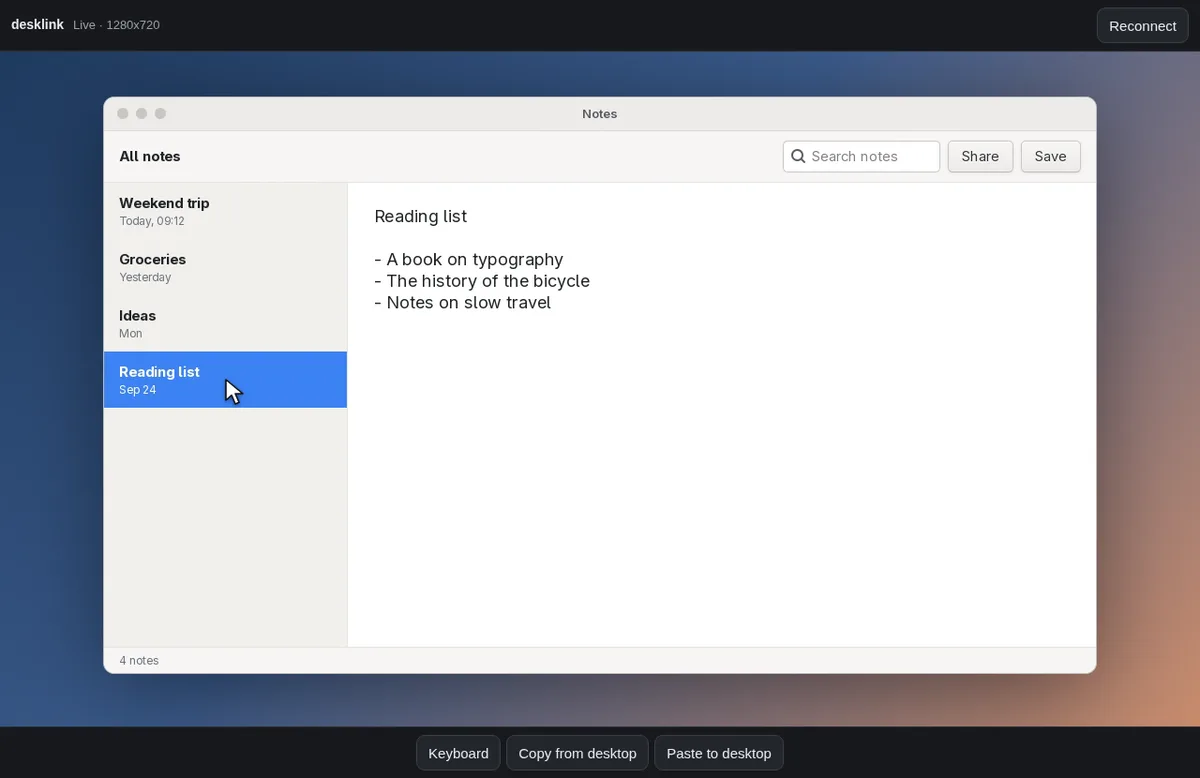
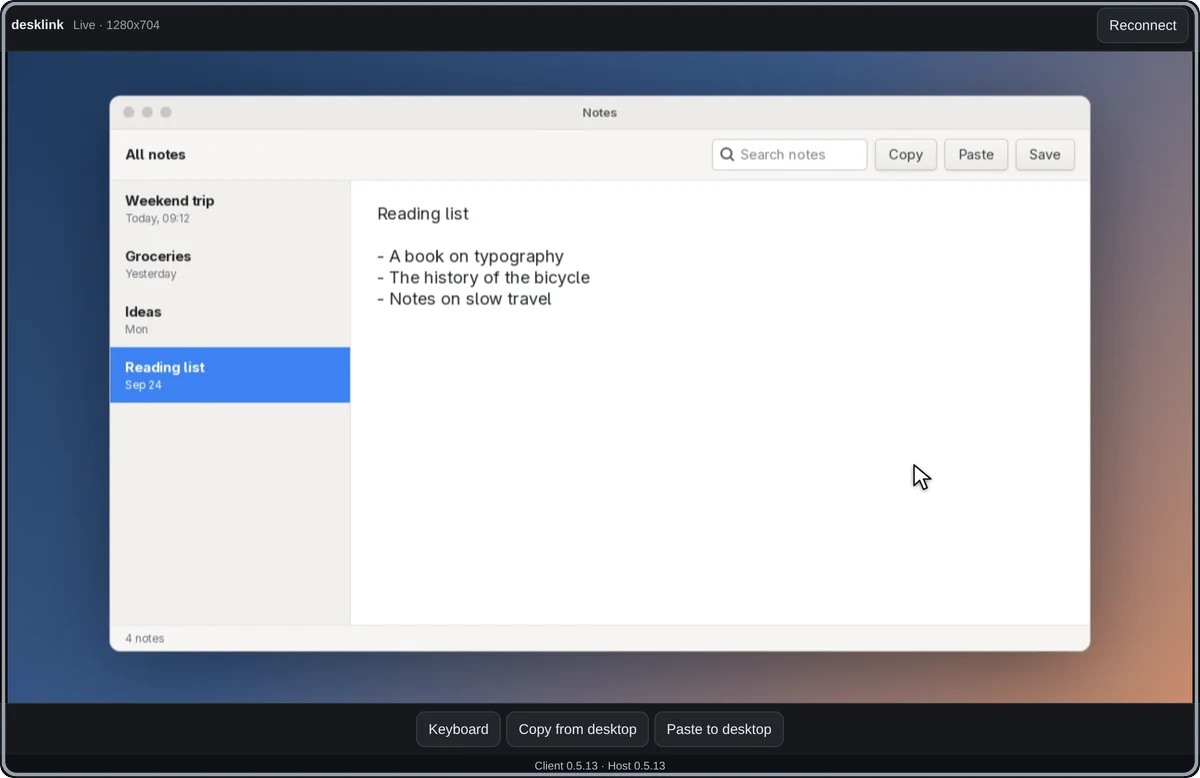
docs(readme): clean captures below the fold (#221)
Replace the four grid stills, three of which were cropped or unreadable, with
two full-bleed real captures and one real agent transcript:

- The browser still is a full client capture at 0.5.13, on a demo desktop sized
  to the client's stage, so the picture has no letterbox bars.
- The phone still is the whole Android emulator screen in portrait at 0.5.13,
  with the demo desktop fitted inside it: nothing is clipped, and the previous
  zoomed crop of the desktop is gone.
- The agent tile becomes the real desklink-axi session as fenced text, so the
  lines are whole and legible at 390 px instead of a hard crop of a terminal.
- Both stills are framed the same way: rounded corners and a hairline that reads
  in light and dark.

The Proof table keeps its measured numbers in three narrow columns, and the
Packages and More tables become plain lists so nothing is clipped or scrolled at
390 px. The published-packages line names 0.5.13.

No product code changes.

Changed region(s): [[0.0, 0.0, 1.0, 1.0], [0.3083, 0.2468, 0.4933, 0.401], [0.4933, 0.1234, 0.5242, 0.1542]]

diff --git a/README.md b/README.md
@@ -32,7 +32,8 @@
 On a Linux x64 X11 desktop, with Node.js 22+:
 
 ```sh
-npx @desklink/host bridge --source x11
+npx @desklink/host bridge \
+  --source x11
 ```
 
 Keep that terminal open. It prints an `open` link; open it in a browser on the
@@ -46,11 +47,7 @@ To put the view in a phone app, follow [put the desktop in a phone app](docs/qui
 <details>
 <summary>Not starting? Check what this computer can share</summary>
 
-```sh
-npx @desklink/host capabilities
-```
-
-It prints the capture backends, input injection, clipboard and audio options this
+Run `npx @desklink/host capabilities`. It prints the capture backends, input injection, clipboard and audio options this
 machine reports right now, so a missing portal, `uinput` permission or X display
 shows up before a session is opened. The [host setup guide](packages/desktop-host/README.md#install-and-run)
 covers what each one needs.
@@ -74,20 +71,44 @@ own, and keeps the last word on who gets in.
 
 ## What you get
 
-<table>
-  <tr>
-    <td width="50%" valign="top"><img src="docs/assets/readme/browser.webp" alt="Browser reference client with the Reading list open on a private demo desktop." width="480" /><br/><strong>In your browser</strong><br/>Click, type and scroll. No client build needed.</td>
-    <td width="50%" valign="top"><img src="docs/assets/readme/phone.webp" alt="React Native example app on a landscape Android emulator: a tap selects Groceries, with touch pointer and key controls visible." width="480" /><br/><strong>In your phone app</strong><br/>The React Native view, on an Android emulator.</td>
-  </tr>
-  <tr>
-    <td width="50%" valign="top"><img src="docs/assets/readme/agent.webp" alt="A close-up of the real agent CLI: read Groceries as text, click the Bread item, then press End." width="480" /><br/><strong>With your agent</strong><br/>Read the screen as text. Ask for pixels when needed.</td>
-    <td width="50%" valign="top"><img src="docs/assets/readme/clipboard.webp" alt="The browser client copies Book the cabin by the lake from the desktop note, then pastes Call Umer about the cabin back into it." width="480" /><br/><strong>Keys and clipboard, too</strong><br/>Copy text over and send it back, only when you ask.</td>
-  </tr>
-</table>
+<p align="center">
+  <img src="docs/assets/readme/browser.webp" alt="The browser reference client with the Reading list note open on a private demo desktop; the client's own header and clipboard toolbar are visible above and below the picture." width="880" />
+</p>
 
-All four are real captures from the demo lab, with seed notes on a private
-desktop and an Android emulator. The loop above is 0.5.12 driving that desktop
-through the browser client: a click, then a paste from this computer's clipboard.
+**In your browser.** Click, type and scroll the live desktop. No client build needed.
+
+<p align="center">
+  <img src="docs/assets/readme/phone.webp" alt="The demo desktop in the React Native example app on an Android emulator: the whole Notes window with the Groceries note open, its sidebar, toolbar and status line, and the demo notes readable at full size." width="880" />
+</p>
+
+**In your phone app.** The same desktop through `@desklink/react-native`, on an Android emulator.
+The phone's own key and clipboard rows sit under the picture; this is the picture above them.
+
+**With your agent.** `desklink-axi` answers with text, refs and coordinates rather than
+screenshots, so a turn costs text tokens. One real session, with the Groceries note open:
+it reads the screen, then clicks the Bread line by its ref. The frame-statistics line and
+the rows between the first and the last three are left out.
+
+```sh
+$ desklink-axi screen
+text[19 of 19]{ref,text,x,y}:
+  "@7.1","All notes",127,106
+  ...
+  "@7.13","- Oat milk",400,245
+  "@7.14","- Lemons",400,268
+  "@7.15","- Bread",400,291
+help[1]:
+  desklink-axi click @7.<n>
+$ desklink-axi click @7.15
+input: applied
+```
+
+**Keys and clipboard, too.** Typing goes through the view, and text moves between the
+phone and the desktop only when your app asks. The loop at the top of this page is one
+round trip: a line copied on this computer, pasted into the desktop's note.
+
+Both stills are real captures from the demo lab, with seed notes on a private desktop and
+an Android emulator.
 
 - **Live, readable video** — sharp still text, smooth motion, and pinch to zoom on a phone.
 - **Touch becomes a pointer** — tap, drag, scroll and type on the same desktop.
@@ -99,12 +120,15 @@ through the browser client: a click, then a paste from this computer's clipboard
 ## Proof
 
 Measured on a physical phone against a 1920×1080 desktop, one quiet host, the
-release engine and the example app from this repository:
+release engine and the example app from this repository. Keys and swipes were sent
+from the phone to that desktop. fps is the median of one-second windows, with the
+fifth percentile in brackets; latency is excess over the fastest frame in the same
+run, at the median and at the 95th percentile.
 
-| Scenario | fps (median of 1 s windows) | fps p05 | Excess latency p50 | p95 |
-| --- | :-: | :-: | :-: | :-: |
-| typing, keys sent to the desktop | **59.9** | 59.0 | **47 ms** | 66 ms |
-| scrolling, swipes sent to the desktop | **59.8** | 59.3 | **38 ms** | 58 ms |
+| Scenario | fps, median (p05) | p50, ms | p95, ms |
+| --- | :-: | :-: | :-: |
+| typing | **59.9** (59.0) | **47** | 66 |
+| scrolling | **59.8** (59.3) | **38** | 58 |
 
 Read these as written: the transport was **USB**, not Wi-Fi, and the latency is
 **excess over the fastest frame in the same run**, so the absolute floor is at
@@ -115,7 +139,7 @@ Everything else here is a run you can repeat:
 
 - **A click, round trip, with no display needed:** `node packages/desktop-host/test/encoded-flow.mjs` feeds a real Annex-B stream into the engine, decodes it in Chrome through the browser client, and checks that the click comes back as input.
 - **A live desktop in a private lab:** the [done-done journeys](.done-done.yaml) open a desktop, click into it and check the picture that comes back.
-- **Published packages:** [@desklink/host](https://www.npmjs.com/package/@desklink/host), [@desklink/react-native](https://www.npmjs.com/package/@desklink/react-native) and [@desklink/axi](https://www.npmjs.com/package/@desklink/axi) release together, currently 0.5.12 on protocol 3.
+- **Published packages:** [@desklink/host](https://www.npmjs.com/package/@desklink/host), [@desklink/react-native](https://www.npmjs.com/package/@desklink/react-native) and [@desklink/axi](https://www.npmjs.com/package/@desklink/axi) release together, currently 0.5.13 on protocol 3.
 
 ## Known limits
 
@@ -130,11 +154,14 @@ Everything else here is a run you can repeat:
 
 ## Packages
 
-| Package | What it is | Install |
-| --- | --- | --- |
-| [@desklink/host](packages/desktop-host) | The engine and its CLI: capture, encode, input, clipboard, a local protocol, and a bridge that prints a browser link | `npm i @desklink/host` |
-| [@desklink/react-native](packages/desktop-client) | The view for Android, iOS and web apps, with gestures, keyboard, clipboard and the signaling interface | `npx expo install @desklink/react-native` |
-| [@desklink/axi](packages/axi) | An agent-facing CLI: read the screen as text or pixels, then click and type | `npm i @desklink/axi` |
+- **[@desklink/host](packages/desktop-host)**: the engine and its CLI, with capture, encode,
+  input, clipboard, a local protocol, and a bridge that prints a browser link.
+  `npm i @desklink/host`
+- **[@desklink/react-native](packages/desktop-client)**: the view for Android, iOS and web apps,
+  with gestures, keyboard, clipboard and the signaling interface.
+  `npx expo install @desklink/react-native`
+- **[@desklink/axi](packages/axi)**: an agent-facing CLI that reads the screen as text or pixels,
+  then clicks and types. `npm i @desklink/axi`
 
 <details>
 <summary>How it fits your app's connection</summary>
@@ -161,16 +188,14 @@ and the [local protocol](packages/desktop-host/docs/PROTOCOL.md).
 
 ## More
 
-| I want to… | Start here |
-| --- | --- |
-| Run or embed the desktop engine | [@desklink/host](packages/desktop-host) |
-| Add a view to an Android, iOS or web app | [@desklink/react-native](packages/desktop-client) |
-| Let an agent see and control a desktop | [@desklink/axi](packages/axi) |
-| Understand the wire format | [Protocol](packages/desktop-host/docs/PROTOCOL.md) |
-| Read the measured phone numbers | [Phone latency and frame rate](docs/phone-wifi-latency.md) |
-| See what's changed | [Changelog](CHANGELOG.md) |
-| See where desklink is headed | [Vision](VISION.md) |
-| Report a problem or suggest an idea | [Issues](https://github.com/umeranjum17/desklink/issues) |
+- Run or embed the desktop engine: [@desklink/host](packages/desktop-host)
+- Add a view to an Android, iOS or web app: [@desklink/react-native](packages/desktop-client)
+- Let an agent see and control a desktop: [@desklink/axi](packages/axi)
+- Understand the wire format: [Protocol](packages/desktop-host/docs/PROTOCOL.md)
+- Read the measured phone numbers: [Phone latency and frame rate](docs/phone-wifi-latency.md)
+- See what's changed: [Changelog](CHANGELOG.md)
+- See where desklink is headed: [Vision](VISION.md)
+- Report a problem or suggest an idea: [Issues](https://github.com/umeranjum17/desklink/issues)
 
 ## Develop
 
@@ -184,13 +209,8 @@ npm test
 npm run test:engine
 ```
 
-Before opening a PR, repeat the tests your change adds or edits:
-
-```sh
-scripts/repeat-changed-tests.sh
-```
-
-On Linux, it compares against `origin/main` and finds changed engine `#[test]`
+Before opening a PR, run `scripts/repeat-changed-tests.sh` to repeat the tests your change
+adds or edits. On Linux, it compares against `origin/main` and finds changed engine `#[test]`
 functions plus changed vitest test files. It runs each of them with half the
 repeats pinned to one busy core, prints one line per test, and exits non-zero
 on any failure. Engine tests default to 1000 repeats because their timing flakes
@@ -206,7 +226,9 @@ unknown session-tagged PID. Compile checks need no desktop. On Linux, prove
 refusal and owned teardown with:
 
 ```sh
-env -u DISPLAY -u WAYLAND_DISPLAY npm run test:lab-safety
+env -u DISPLAY \
+  -u WAYLAND_DISPLAY \
+  npm run test:lab-safety
 ```
 
 See the [done-done journeys](.done-done.yaml),
